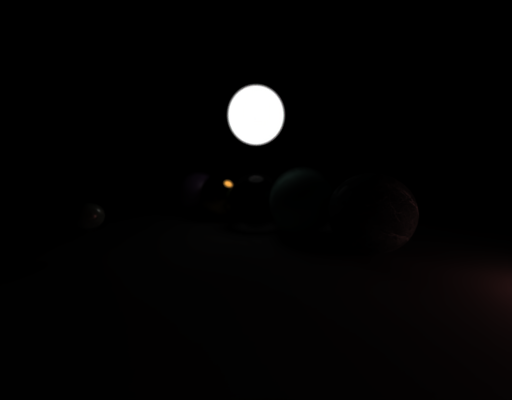
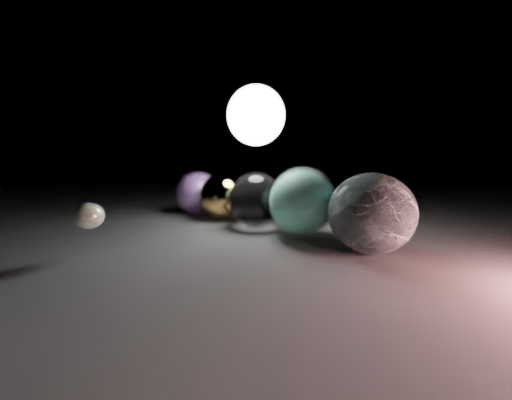
use tonemapping for examples

diff --git a/examples/update_examples.py b/examples/update_examples.py
@@ -1,0 +1,37 @@
+#!/usr/bin/env python
+
+import os
+
+# must be set before importing cv2
+os.environ["OPENCV_IO_ENABLE_OPENEXR"] = "1"
+
+import cv2
+import subprocess
+import glob
+
+
+def convert_hdr(path_in, path_out):
+    img = cv2.imread(path_in, cv2.IMREAD_ANYCOLOR | cv2.IMREAD_ANYDEPTH)
+
+    tonemap = cv2.createTonemapReinhard(2.2, 0.0, 0.0, 0.0)
+    img = tonemap.process(img)
+    cv2.imwrite(path_out, img * 255)
+
+
+# Build the project
+subprocess.run(["cargo", "build", "--release", "--features", "enable_oidn"])
+
+# Set TEV_PATH to an empty string
+os.environ["TEV_PATH"] = ""
+
+# Find and process .toml files in the "examples" directory
+for toml_path in glob.iglob("examples/**/*.toml", recursive=True):
+    print(f"Rendering {toml_path}")
+
+    # Run the target/release/pbrtrs_main command
+    subprocess.run(["target/release/pbrtrs_main", toml_path])
+
+    print(f"Converting {toml_path}")
+
+    # Run the "magick" command to convert out.exr to .png
+    convert_hdr("out.exr", f"{os.path.splitext(toml_path)[0]}.png")
